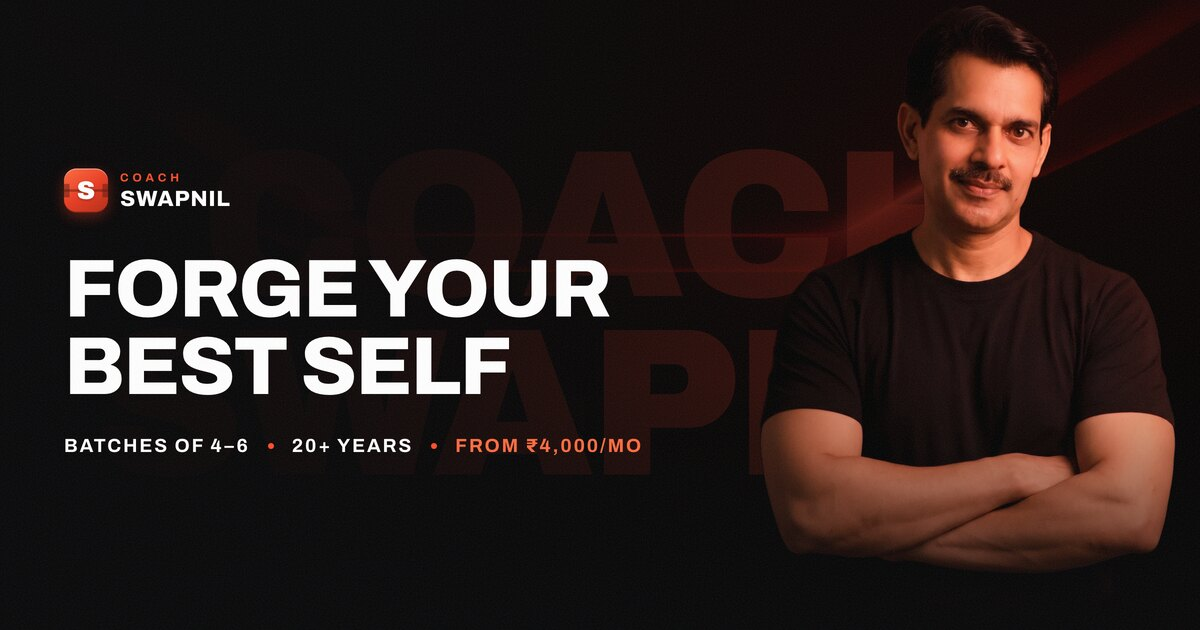
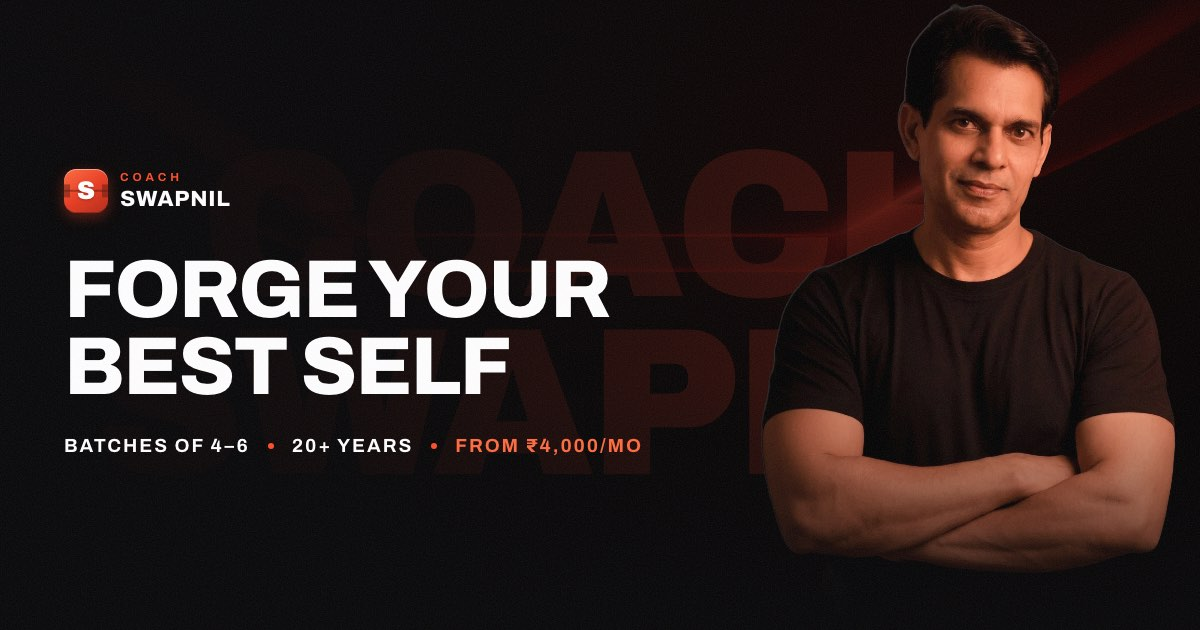
Re-render the OG share card against the clean-shaven hero
The card is rendered from og-template.html, which pulls in the real hero
asset, so it still carried the old face. Everything else about it is
unchanged — same wordmark, headline, meta row and watermark.

og:image and twitter:image now carry ?v=24. Without it the immutable
/assets/* rule would keep serving the previous card to anything that had
already fetched it.

diff --git a/index.html b/index.html
@@ -19,7 +19,7 @@
      WhatsApp caches previews per URL and will otherwise keep serving the old
      one. Appending ?v=2 to the shared link is the quickest way to bust it. -->
 <meta property="og:url" content="https://coach-swapnil.netlify.app/">
-<meta property="og:image" content="https://coach-swapnil.netlify.app/assets/og-image.jpg">
+<meta property="og:image" content="https://coach-swapnil.netlify.app/assets/og-image.jpg?v=24">
 <meta property="og:image:type" content="image/jpeg">
 <meta property="og:image:width" content="1200">
 <meta property="og:image:height" content="630">
@@ -27,7 +27,7 @@
 <meta name="twitter:card" content="summary_large_image">
 <meta name="twitter:title" content="Coach Swapnil — Forge Your Best Self">
 <meta name="twitter:description" content="Small-group batches of 4–6 and 1-on-1 personal training. From ₹4,000/month.">
-<meta name="twitter:image" content="https://coach-swapnil.netlify.app/assets/og-image.jpg">
+<meta name="twitter:image" content="https://coach-swapnil.netlify.app/assets/og-image.jpg?v=24">
 <link rel="icon" href="assets/favicon-32.png" sizes="32x32" type="image/png">
 <link rel="apple-touch-icon" href="assets/apple-touch-icon.png">
 <link rel="manifest" href="site.webmanifest">
